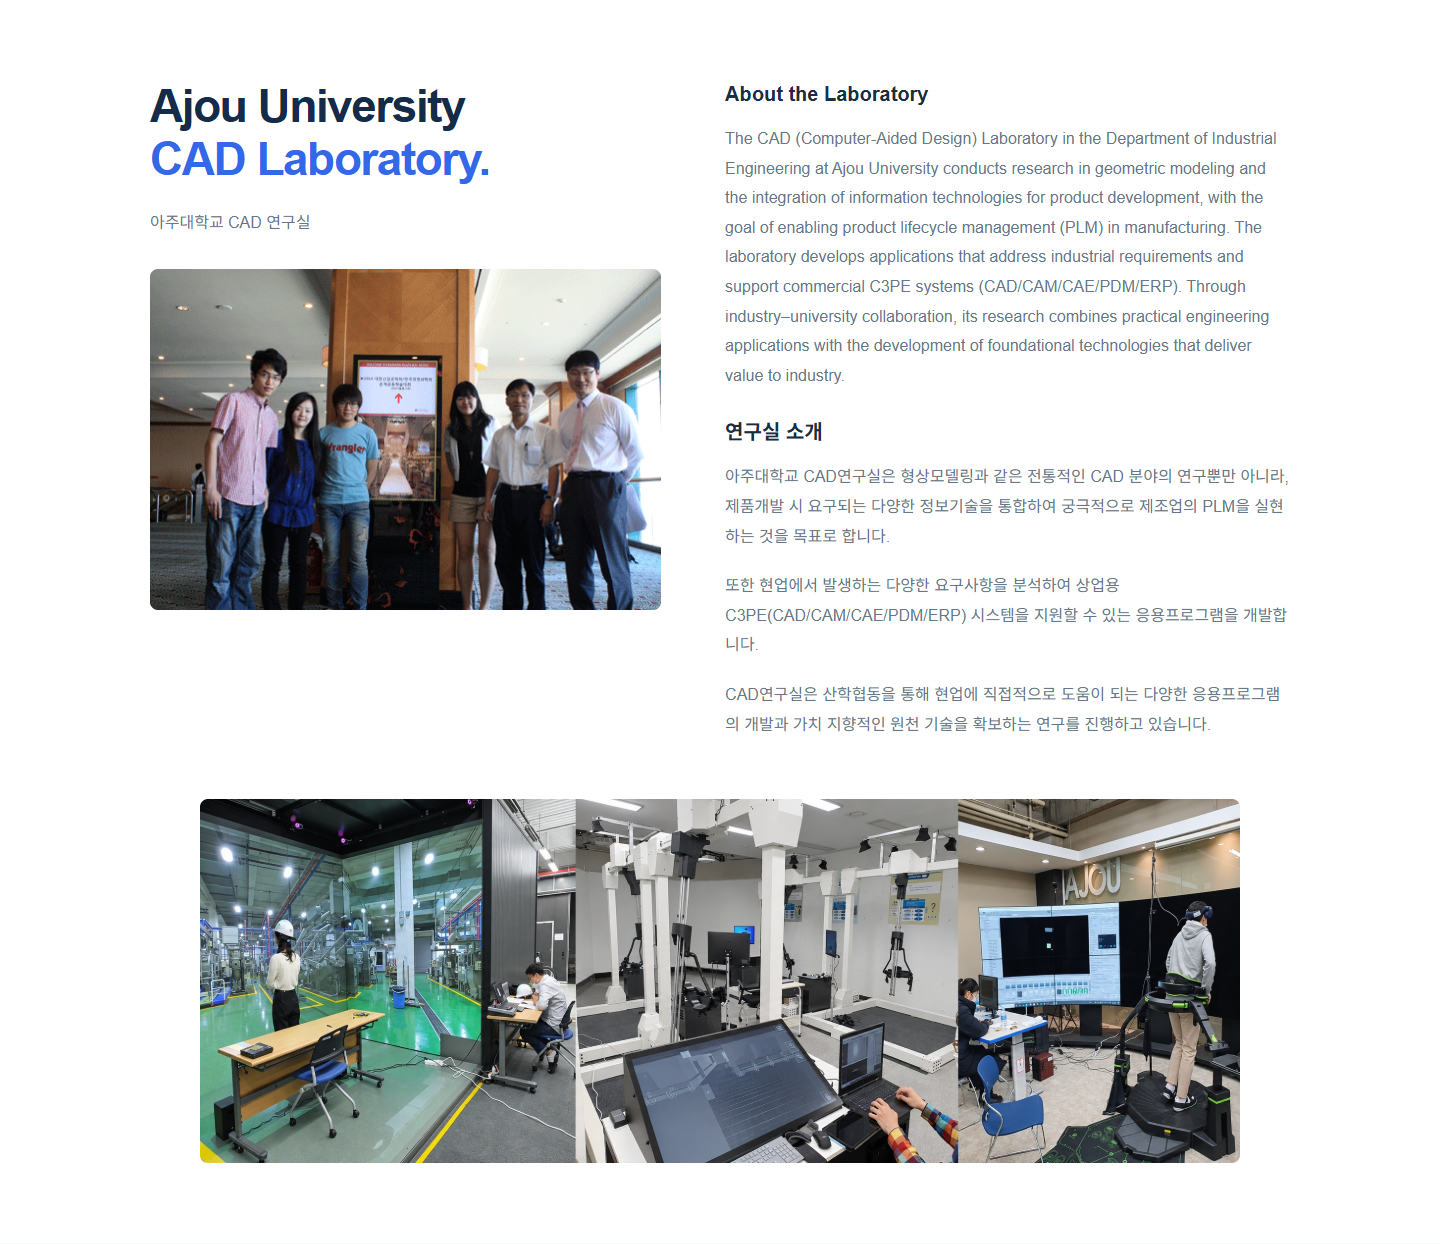
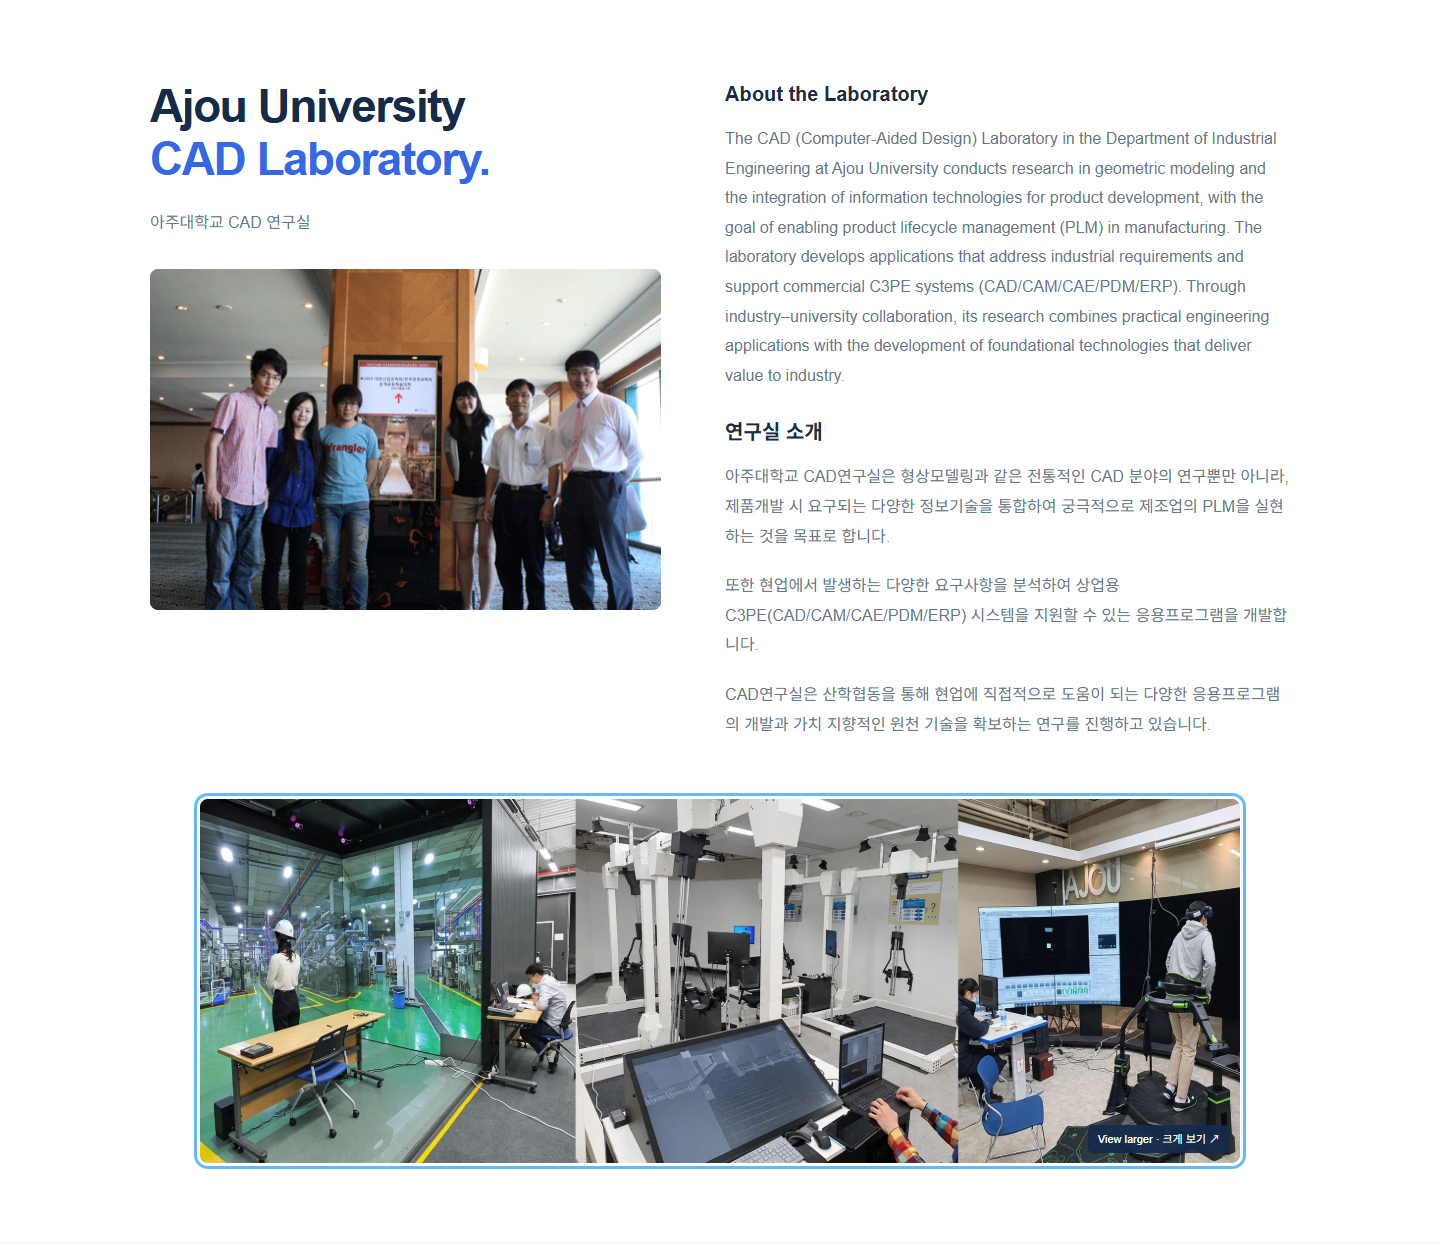
Add accessible image viewer and optimize homepage images

Changed region(s): [[0.75, 0.8859, 0.875, 0.9469]]

diff --git a/assets/image-viewer.js b/assets/image-viewer.js
@@ -1,0 +1,65 @@
+/* Progressive enhancement: image links still open the image without JavaScript. */
+(() => {
+  if (!window.HTMLDialogElement || !HTMLDialogElement.prototype.showModal) return;
+  const links = [...document.querySelectorAll('[data-image-viewer]')];
+  if (!links.length) return;
+  const dialog = document.createElement('dialog');
+  dialog.className = 'image-viewer';
+  dialog.setAttribute('aria-label', 'Image viewer · 이미지 확대 보기');
+  const toolbar = document.createElement('div');
+  toolbar.className = 'image-viewer-toolbar';
+  const zoom = document.createElement('button');
+  zoom.type = 'button';
+  zoom.textContent = '100% · 실제 크기';
+  zoom.setAttribute('aria-pressed', 'false');
+  const close = document.createElement('button');
+  close.type = 'button';
+  close.textContent = 'Close · 닫기 ×';
+  const viewport = document.createElement('div');
+  viewport.className = 'image-viewer-viewport';
+  viewport.tabIndex = 0;
+  viewport.setAttribute('aria-label', 'Image; scroll to inspect at actual size · 실제 크기에서 스크롤하여 보기');
+  const image = document.createElement('img');
+  image.draggable = false;
+  toolbar.append(zoom, close);
+  dialog.append(toolbar, viewport);
+  document.body.append(dialog);
+  let trigger;
+  let previousOverflow;
+  const reset = () => {
+    dialog.classList.remove('actual-size');
+    zoom.setAttribute('aria-pressed', 'false');
+    zoom.textContent = '100% · 실제 크기';
+    viewport.scrollTop = viewport.scrollLeft = 0;
+  };
+  links.forEach(link => link.addEventListener('click', event => {
+    if (event.button !== 0 || event.metaKey || event.ctrlKey || event.shiftKey || event.altKey) return;
+    event.preventDefault();
+    trigger = link;
+    image.src = link.href;
+    image.alt = link.querySelector('img').alt;
+    viewport.append(image);
+    reset();
+    previousOverflow = document.body.style.overflow;
+    document.body.style.overflow = 'hidden';
+    dialog.showModal();
+    close.focus();
+  }));
+  zoom.addEventListener('click', () => {
+    const actual = dialog.classList.toggle('actual-size');
+    zoom.setAttribute('aria-pressed', String(actual));
+    zoom.textContent = actual ? 'Fit to screen · 화면에 맞추기' : '100% · 실제 크기';
+    viewport.scrollTop = viewport.scrollLeft = 0;
+  });
+  close.addEventListener('click', () => dialog.close());
+  dialog.addEventListener('click', event => {
+    if (event.target !== dialog) return;
+    const box = dialog.getBoundingClientRect();
+    if (event.clientX < box.left || event.clientX > box.right || event.clientY < box.top || event.clientY > box.bottom) dialog.close();
+  });
+  dialog.addEventListener('close', () => {
+    image.remove();
+    document.body.style.overflow = previousOverflow;
+    trigger?.focus({preventScroll: true});
+  });
+})();

diff --git a/index.html b/index.html
@@ -64,7 +64,10 @@
        
 
         <div class="hero-art">
-          <img src="assets/product-information.png" alt="Product information framework connecting expert systems, product lifecycle management and geometry modeling." width="1448" height="1086" fetchpriority="high">
+          <a class="image-enlarge" href="assets/product-information.webp" data-image-viewer aria-label="Enlarge product information diagram · 제품 정보 구성도 확대">
+            <img src="assets/product-information.webp" alt="Product information framework connecting expert systems, product lifecycle management and geometry modeling." width="1448" height="1086" fetchpriority="high">
+            <span class="image-enlarge-label">View larger · 크게 보기 <span aria-hidden="true">↗</span></span>
+          </a>
         </div>
       </div>
 
@@ -107,7 +110,10 @@
       </p>
     </div>
     <div class="about-facilities">
-      <img src="assets/cadlab-facilities.jpg" alt="CAD Laboratory research facilities with immersive visualization, haptic equipment and virtual reality systems." width="2120" height="742" loading="lazy" decoding="async">
+      <a class="image-enlarge" href="assets/cadlab-facilities.webp" data-image-viewer aria-label="Enlarge laboratory facilities photo · 연구 시설 사진 확대">
+        <img src="assets/cadlab-facilities.webp" alt="CAD Laboratory research facilities with immersive visualization, haptic equipment and virtual reality systems." width="2120" height="742" loading="lazy" decoding="async">
+        <span class="image-enlarge-label">View larger · 크게 보기 <span aria-hidden="true">↗</span></span>
+      </a>
     </div>
   </div>
 </section>
@@ -126,5 +132,6 @@
   <!-- shared-footer:end -->
   <script src="assets/content.js"></script><script src="assets/site.js"></script>
 <script src="assets/navigation.js" defer></script>
+<script src="assets/image-viewer.js" defer></script>
 </body>
 </html>

diff --git a/assets/styles.css b/assets/styles.css
@@ -178,3 +178,15 @@ button{font-family:inherit}
 #publicationList .entry{align-items:baseline;flex-wrap:wrap}
 #publicationList .entry strong{flex:0 1 300px}
 #publicationList .entry span{flex:1 1 360px}
+.image-enlarge{display:block;position:relative;border-radius:8px;overflow:hidden;cursor:zoom-in}
+.hero-art .image-enlarge{max-width:440px;margin:auto}
+.image-enlarge-label{position:absolute;right:10px;bottom:10px;background:#142b49eF;color:#fff;border-radius:5px;padding:6px 10px;font-size:11px;line-height:1.5}
+.image-viewer{width:calc(100% - 32px);max-width:1440px;height:calc(100dvh - 32px);max-height:calc(100dvh - 32px);padding:0;border:0;border-radius:10px;background:#101c2c;color:#fff}
+.image-viewer::backdrop{background:#07111de8}
+.image-viewer[open]{display:flex;flex-direction:column}
+.image-viewer-toolbar{display:flex;justify-content:flex-end;gap:10px;padding:12px;flex-shrink:0;border-bottom:1px solid #ffffff30}
+.image-viewer button{min-height:44px;padding:8px 14px;background:#fff;color:#142b49;border:0;border-radius:5px;font:inherit;font-size:14px;cursor:pointer}
+.image-viewer-viewport{overflow:auto;flex:1;min-height:0;overscroll-behavior:contain;padding:12px}
+.image-viewer-viewport img{display:block;width:100%;height:100%;object-fit:contain}
+.image-viewer.actual-size .image-viewer-viewport img{width:auto;height:auto;max-width:none;max-height:none}
+@media(max-width:480px){.image-viewer{width:calc(100% - 16px);height:calc(100dvh - 16px);max-height:calc(100dvh - 16px)}.image-viewer-toolbar{gap:8px;padding:8px}.image-viewer button{font-size:12px;padding:8px 10px}}

diff --git a/.github/review/hero/README.md b/.github/review/hero/README.md
@@ -115,3 +115,7 @@ Validation: five responsive widths for existing checks, all 15 HTML pages at des
 ## Public-facing copy cleanup
 
 Completed the three approved audit items: removed residual internal verification/old-site language, simplified all five member badges to 현재 구성원, and corrected English singular/plural, capitalization and laboratory-history grammar. Kept corresponding-author notation and all personnel, publication and project records. The explicit text replacement map in tools/public-copy-edits.json is also used by the record guard. Five-width browser checks, all-page image/layout checks, 30 Logo navigations, record guard and git diff --check passed.
+
+## Image reading and loading optimization
+
+Adds progressive image links for the homepage diagram and facilities panorama. The dialog supports fit-to-screen and actual-size scrolling, bilingual controls, Escape/close-button dismissal, focus containment and return to the triggering link. Without JavaScript, links open the image directly. WebP replaces the served diagram (1,714,294 to 911,070 bytes, pixel-identical lossless conversion) and panorama (549,640 to 328,762 bytes, quality 90). Original assets remain available. Combined image payload is reduced about 45%. Five-width checks, desktop/mobile dialog keyboard/zoom/focus checks, all-page image decoding, 30 Logo navigations, record guard and git diff --check passed.
